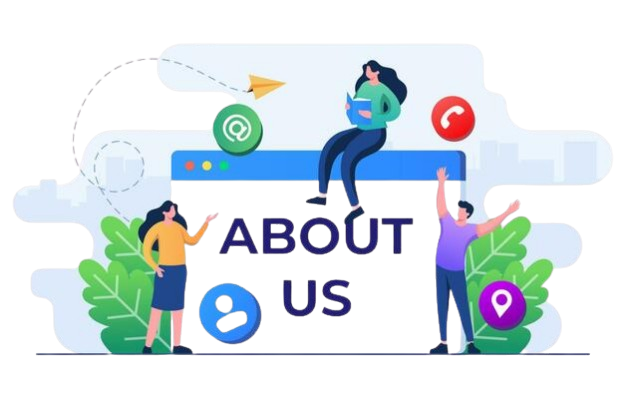
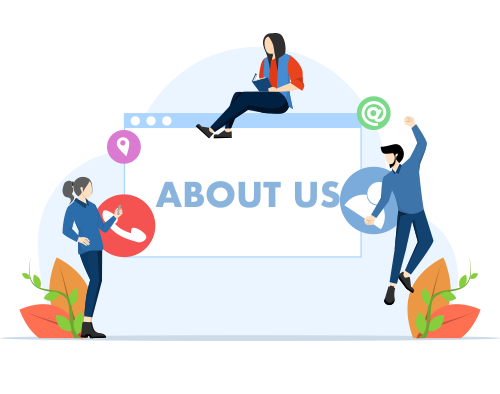
Initial commit

diff --git a/src/Components/About.jsx b/src/Components/About.jsx
@@ -48,7 +48,7 @@ export default function About() {
                 </div>
                 <div className="flex flex-wrap justify-center">
                     <div className="flex justify-center" data-aos="fade-right" data-aos-duration="1000">
-                        <img ref={imgRef} src="/images/aboutus.png" alt="" style={{ transform: "perspective(1000px) rotateY(0deg) rotateX(0deg)", transition: "transform 0.1s ease-out", transformStyle: "preserve-3d" }} />
+                        <img ref={imgRef} src="/images/aboutus.png" className='' alt="" style={{ transform: "perspective(1000px) rotateY(0deg) rotateX(0deg)", transition: "transform 0.1s ease-out", transformStyle: "preserve-3d" }} />
                     </div>
                     <div className="flex flex-col justify-center text-center" data-aos="fade-left" data-aos-duration="1000">
                         <h1 className="text-4xl mx-auto w-fit font-bold mb-4">
@@ -69,21 +69,21 @@ export default function About() {
                             Our Values
                         </h2>
                         <div className="flex flex-wrap justify-center gap-8">
-                            <div className={`max-w-xs p-6 rounded-lg shadow-md ${localStorage.getItem('theme') === 'dark' ? 'border' : ''}`}>
+                            <div className={`max-w-xs p-6 rounded-lg shadow-md hover:shadow-lg ${localStorage.getItem('theme') === 'dark' ? 'shadow-white/50' : ''}`}>
                                 <h3 className="text-xl font-semibold text-indigo-600 mb-2"> Quality Ingredients </h3>
                                 <p>
                                     We use only the best ingredients to prepare our meals with care
                                     and passion, ensuring great taste every time.
                                 </p>
                             </div>
-                            <div className={`max-w-xs p-6 rounded-lg shadow-md ${localStorage.getItem('theme') === 'dark' ? 'border' : ''}`}>
+                            <div className={`max-w-xs p-6 rounded-lg shadow-md hover:shadow-lg ${localStorage.getItem('theme') === 'dark' ? 'shadow-white/50' : ''}`}>
                                 <h3 className="text-xl font-semibold text-indigo-600 mb-2"> Fast Delivery </h3>
                                 <p>
                                     We guarantee quick and efficient delivery to ensure your food
                                     arrives hot and fresh.
                                 </p>
                             </div>
-                            <div className={`max-w-xs p-6 rounded-lg shadow-md ${localStorage.getItem('theme') === 'dark' ? 'border' : ''}`}>
+                            <div className={`max-w-xs p-6 rounded-lg shadow-md hover:shadow-lg ${localStorage.getItem('theme') === 'dark' ? 'shadow-white/50' : ''}`}>
                                 <h3 className="text-xl font-semibold text-indigo-600 mb-2"> Customer Satisfaction </h3>
                                 <p>
                                     Our customers' happiness is our top priority. We always aim to
@@ -98,18 +98,18 @@ export default function About() {
                     <div className="mx-auto max-w-7xl text-center">
                         <h2 className="text-3xl font-semibold mb-6"> Meet the Team </h2>
                         <div className="flex flex-wrap justify-center gap-8">
-                            <div className={`max-w-xs p-6 rounded-lg shadow-md ${localStorage.getItem('theme') === 'dark' ? 'border' : ''}`}>
-                                <img src="/images/user.png" alt="Team Member" className="w-32 h-32 rounded-full mx-auto mb-4" />
+                            <div className={`max-w-xs p-6 rounded-lg shadow-md hover:shadow-lg ${localStorage.getItem('theme') === 'dark' ? 'shadow-white/50' : ''}`}>
+                                <img src="https://avatar.iran.liara.run/public/boy" alt="Team Member" className="w-32 h-32 rounded-full mx-auto mb-4" />
                                 <h3 className="text-xl font-semibold  mb-2">...</h3>
                                 <p>Founder & CEO</p>
                             </div>
-                            <div className={`max-w-xs p-6 rounded-lg shadow-md ${localStorage.getItem('theme') === 'dark' ? 'border' : ''}`}>
-                                <img src="/images/user.png" alt="Team Member" className="w-32 h-32 rounded-full mx-auto mb-4" />
+                            <div className={`max-w-xs p-6 rounded-lg shadow-md hover:shadow-lg ${localStorage.getItem('theme') === 'dark' ? 'shadow-white/50' : ''}`}>
+                                <img src="https://avatar.iran.liara.run/public" alt="Team Member" className="w-32 h-32 rounded-full mx-auto mb-4" />
                                 <h3 className="text-xl font-semibold  mb-2">...</h3>
                                 <p>Head Chef</p>
                             </div>
-                            <div className={`max-w-xs p-6 rounded-lg shadow-md ${localStorage.getItem('theme') === 'dark' ? 'border' : ''}`}>
-                                <img src="/images/user.png" alt="Team Member" className="w-32 h-32 rounded-full mx-auto mb-4" />
+                            <div className={`max-w-xs p-6 rounded-lg shadow-md hover:shadow-lg ${localStorage.getItem('theme') === 'dark' ? 'shadow-white/50' : ''}`}>
+                                <img src="https://avatar.iran.liara.run/public/girl" alt="Team Member" className="w-32 h-32 rounded-full mx-auto mb-4" />
                                 <h3 className="text-xl font-semibold  mb-2">...</h3>
                                 <p>Customer Service</p>
                             </div>

diff --git a/src/Components/ContactUs.jsx b/src/Components/ContactUs.jsx
@@ -42,7 +42,9 @@ export default function ContactUs() {
                 })
 
                 const data = await res.json();
-                if (!data) {
+                if (data.success === false) {
+                    throw new Error("Submittion failed");
+                } else if (data.error) {
                     throw new Error("Submittion failed");
                 }
 

diff --git a/backend/routes/contact.js b/backend/routes/contact.js
@@ -30,7 +30,7 @@ router.post('/contactus', fetchuser, [
         res.status(200).json({ success: true, message: "Contact form submitted successfully." });
     } catch (error) {
         console.error(error.message);
-        res.status(500).send({error : "Server Error"});
+        res.status(500).send({ success: false, error : "Server Error"});
     }
 })
 
